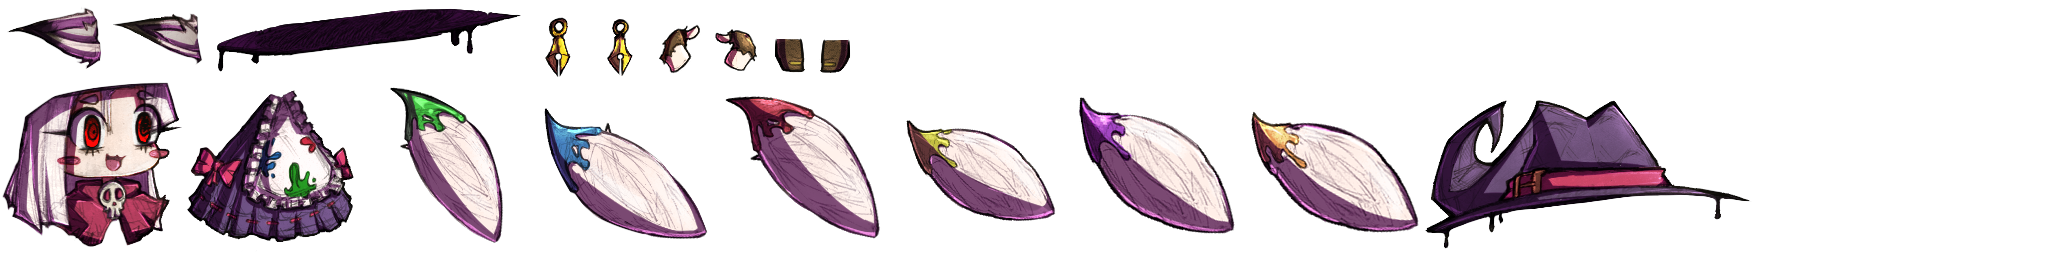
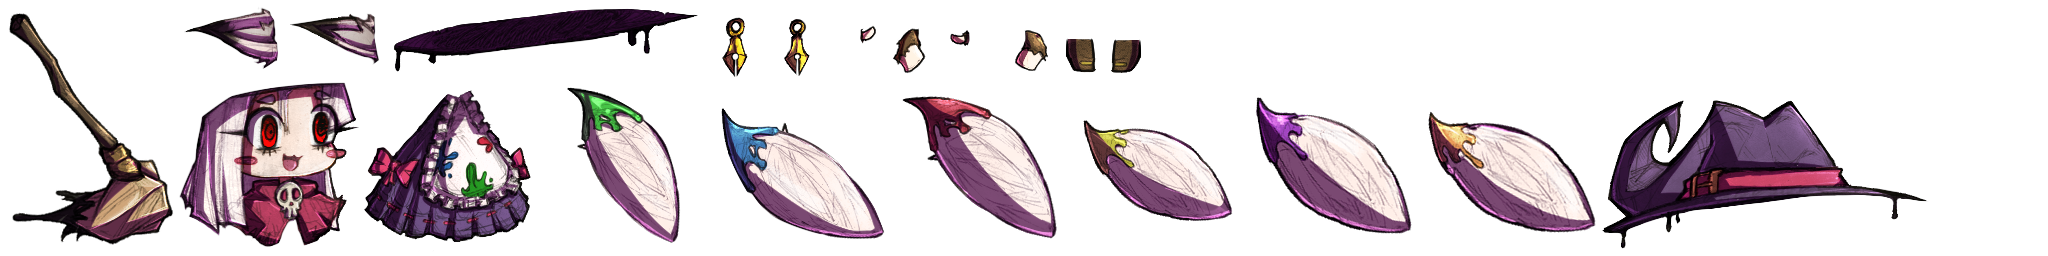
Nueva textura de plataforma, animaciones de mona china

diff --git a/TryJam!/Assets/Scripts/Player/pj_playerController.cs b/TryJam!/Assets/Scripts/Player/pj_playerController.cs
@@ -9,6 +9,10 @@ public class pj_playerController : MonoBehaviour
     public float moveSpeed = 7f;
     public Rigidbody rb;
     Vector3 movement;
+<<<<<<< Updated upstream
+=======
+    bool moving;
+>>>>>>> Stashed changes
     public float attackRange = 3f;
 
     private Vector3 mousePos;
@@ -28,7 +32,11 @@ public class pj_playerController : MonoBehaviour
     void Start()
     {
         rb = GetComponent<Rigidbody>();
+<<<<<<< Updated upstream
         //spineSkel.GetComponentInChildren<SkeletonAnimation>();
+=======
+        spineSkel.AnimationState.SetAnimation(0, "IDLE", true);
+>>>>>>> Stashed changes
     }
 
     void Update()
@@ -45,11 +53,27 @@ public class pj_playerController : MonoBehaviour
             Ray ray = new Ray(transform.position, (clickPosition - transform.position).normalized);
             if (Physics.Raycast(ray, out hit2, attackRange, entityLayer)) {
                 if (hit2.transform.CompareTag("Enemy")) {
+<<<<<<< Updated upstream
                     if (Input.GetMouseButtonDown(1))
                         hit2.transform.GetComponent<mg_rewind>().RewindStart();
                     if (Input.GetMouseButtonDown(0))
                         PushEnemy(hit2.transform.GetComponent<Rigidbody>());
                         
+=======
+                    if (Input.GetMouseButtonDown(1)) {
+                        hit2.transform.GetComponent<mg_rewind>().RewindStart();
+                        spineSkel.AnimationState.ClearTrack(2);
+                        spineSkel.AnimationState.SetAnimation(2, "Cast", false);
+                        spineSkel.AnimationState.AddAnimation(2, "Cast", false, 0);
+                        spineSkel.AnimationState.AddAnimation(2, "IDLE", true, 0);
+                    }
+                    if (Input.GetMouseButtonDown(0)) {
+                        PushEnemy(hit2.transform.GetComponent<Rigidbody>());
+                        spineSkel.AnimationState.ClearTrack(2);
+                        spineSkel.AnimationState.SetAnimation(2, "Push", false);
+                        spineSkel.AnimationState.AddAnimation(2, "IDLE", true, 0);
+                    }
+>>>>>>> Stashed changes
                 }
             }
         }
@@ -63,9 +87,18 @@ public class pj_playerController : MonoBehaviour
         movement.x = Input.GetAxisRaw("Horizontal");
         movement.z = Input.GetAxisRaw("Vertical");
 
+<<<<<<< Updated upstream
         if(moveDirection.magnitude != 0)
             lastMoveDir = moveDirection;
         //Debug.Log(lastMoveDir.normalized + "last dir");
+=======
+        if (moveDirection.magnitude != 0) {
+            lastMoveDir = moveDirection;
+            if (!moving)
+                MoveStart();
+        }
+        else MoveEnd();
+>>>>>>> Stashed changes
     }
 
     private void FixedUpdate()
@@ -97,18 +130,25 @@ public class pj_playerController : MonoBehaviour
     {
         Vector3 direction = (enemyRb.transform.position - transform.position).normalized * pushEnemyForce;
         enemyRb.AddForce(direction);
+<<<<<<< Updated upstream
         AudioManager.instance.Play("ForceStaff");
+=======
+>>>>>>> Stashed changes
     }
 
     private void HandleDash()
     {
         if (Input.GetKeyDown(KeyCode.Space))
+<<<<<<< Updated upstream
         {
             transform.position += lastMoveDir * dashDistance;
             AudioManager.instance.Play("Teletransportation");
         }
 
 
+=======
+            transform.position += lastMoveDir * dashDistance;
+>>>>>>> Stashed changes
     }
 
     void FlipPlayer(bool facing)
@@ -121,4 +161,16 @@ public class pj_playerController : MonoBehaviour
         foreach (Collider col in cols)
             col.enabled = false;
     }
+<<<<<<< Updated upstream
+=======
+
+    void MoveStart () {
+        moving = true;
+        spineSkel.AnimationState.SetAnimation(3, "Walk", true);
+    }
+    void MoveEnd () {
+        moving = false;
+        spineSkel.AnimationState.ClearTrack(3);
+    }
+>>>>>>> Stashed changes
 }
